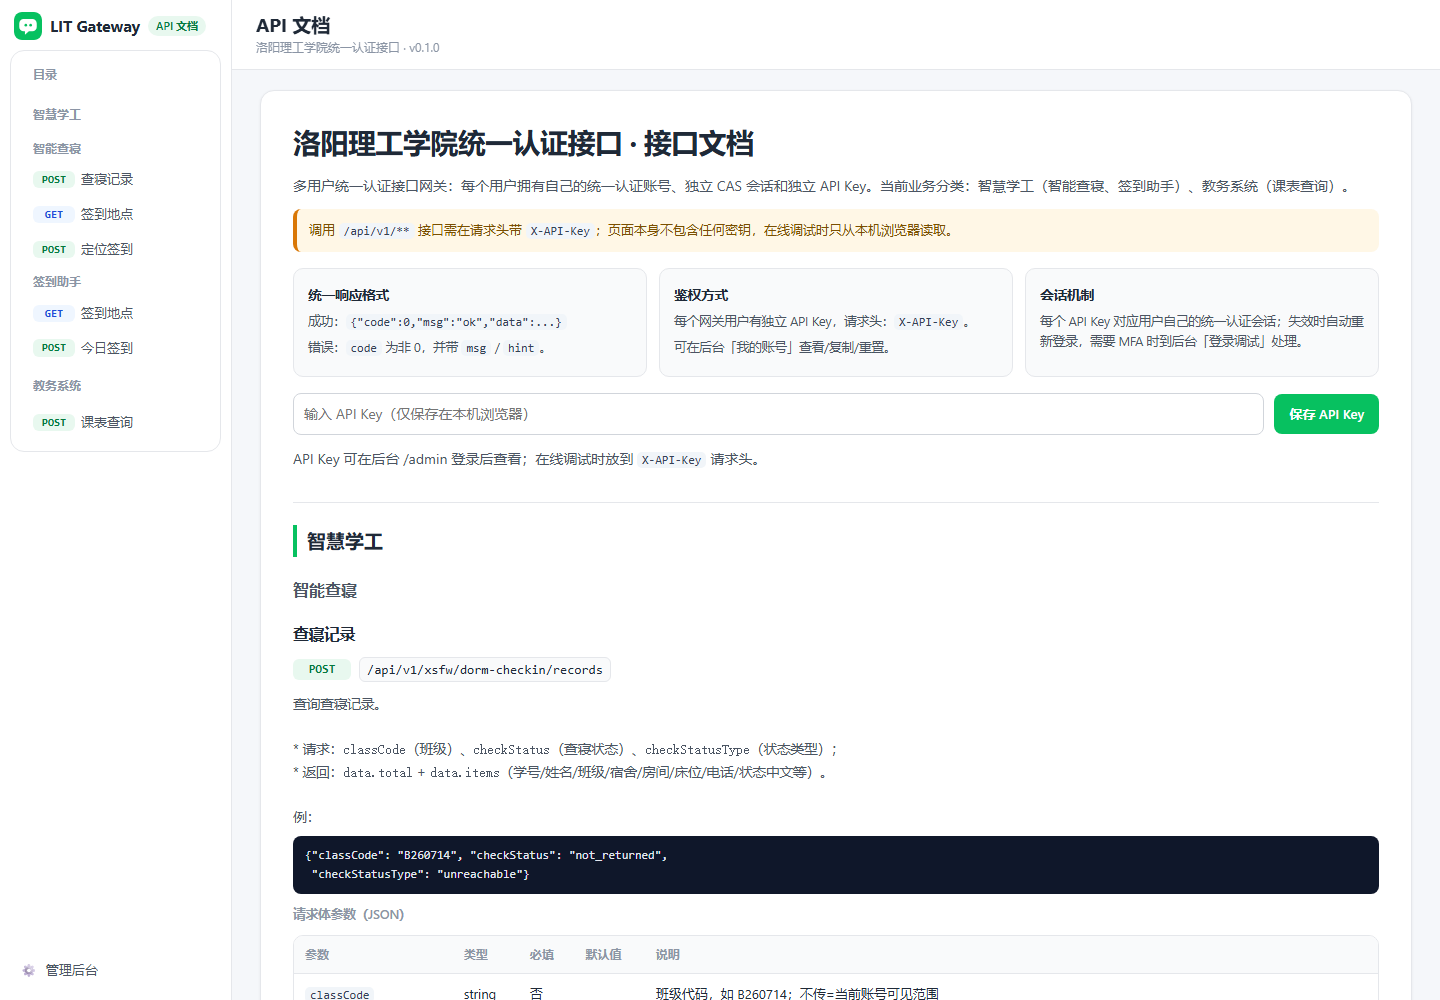
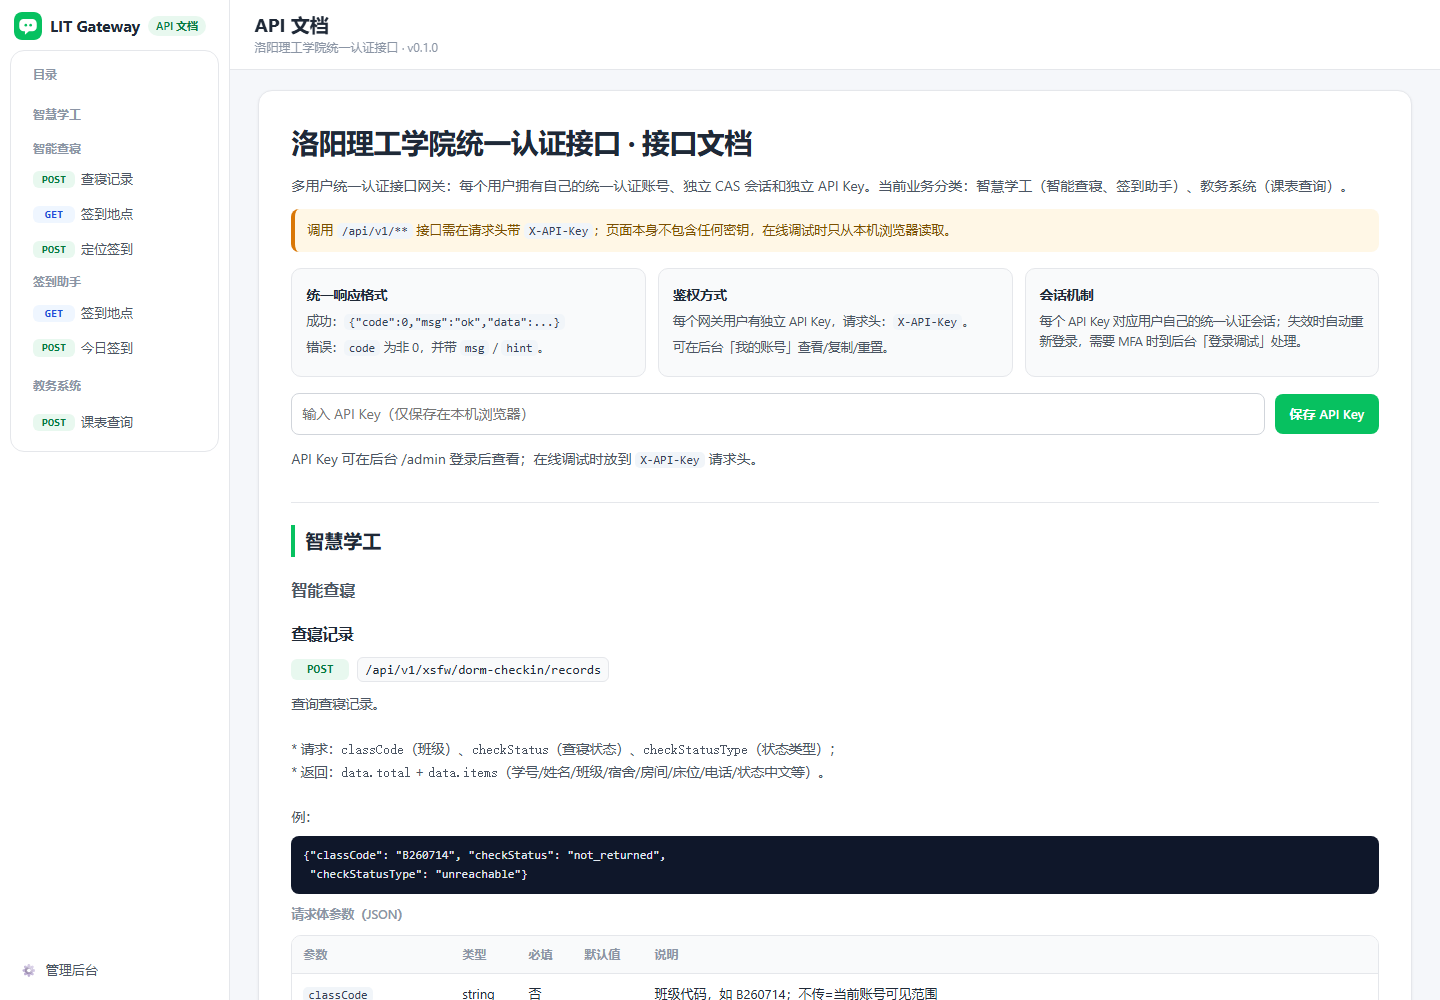
refactor: share one responsive layout base across docs and admin

diff --git a/app/webui.py b/app/webui.py
@@ -1,0 +1,37 @@
+"""统一响应式页面基座。
+
+所有前台/后台页面共用同一份 HTML 和同一套布局规则，不维护独立的 PC/移动端模板。
+具体页面只补充业务样式；这里只负责：
+  * 页面外壳宽度（侧栏/主内容）
+  * 表单行、按钮、输入框的自动换行与收缩
+  * 表格/图片/代码块在窄屏不撑破容器
+"""
+
+RESPONSIVE_CSS = """
+/* ---------- 统一响应式基座：页面只有一套结构，不区分 PC/移动端 ---------- */
+:root{
+  --sidebar-w:clamp(200px,16vw,232px);
+  --page-gap:clamp(12px,1.6vw,24px);
+}
+img{max-width:100%;height:auto}
+input,select,textarea{max-width:100%;box-sizing:border-box}
+.row{display:flex;flex-wrap:wrap;align-items:center;gap:8px;min-width:0}
+.row > input,
+.row > select{flex:1 1 150px;width:auto!important;min-width:0;max-width:100%}
+.row > button,
+.row > .btn,
+.row > label{flex:0 1 auto;max-width:100%}
+.row > span{flex:0 0 auto}
+.row > .note{flex:1 1 100%}
+.table-wrap{max-width:100%;overflow-x:auto}
+.doc-sidebar{width:var(--sidebar-w)}
+.docs-main{margin-left:var(--sidebar-w)}
+.admin-sidebar{width:var(--sidebar-w)}
+.admin-main{margin-left:var(--sidebar-w)}
+.docs-content{padding-left:var(--page-gap);padding-right:var(--page-gap)}
+.admin-content{padding-left:var(--page-gap);padding-right:var(--page-gap)}
+@media(max-width:900px){
+  .docs-main,.admin-main{margin-left:0}
+  .doc-sidebar,.admin-sidebar{width:min(300px,85vw)}
+}
+"""

diff --git a/app/routers/admin.py b/app/routers/admin.py
@@ -53,6 +53,7 @@ from ..session import SessionError
 from ..settings_store import DEFAULTS, EDITABLE, apply_log_level
 from ..systems import SystemError
 from ..users import UserStore
+from ..webui import RESPONSIVE_CSS
 
 log = logging.getLogger(__name__)
 
@@ -627,6 +628,8 @@ input[readonly]{background:#f3f4f6;color:var(--text2)}
  pre{font-size:11.5px}
 }
 """
+
+_CSS += RESPONSIVE_CSS
 
 _LOGIN_TMPL = """<!doctype html>
 <html lang="zh-CN"><head><meta charset="utf-8"><title>__APP_NAME__ · 后台登录</title>

diff --git a/app/routers/docs.py b/app/routers/docs.py
@@ -20,6 +20,8 @@ from html import escape
 from typing import Any
 
 from fastapi import APIRouter, Request
+
+from ..webui import RESPONSIVE_CSS
 from fastapi.responses import HTMLResponse
 
 router = APIRouter(tags=["前台接口文档"])
@@ -679,6 +681,8 @@ pre.result{margin-top:10px;max-height:280px;padding:12px 14px;border-radius:10px
  pre.result{font-size:11.5px}
 }
 """
+
+_CSS += RESPONSIVE_CSS
 
 DOCS_TMPL = """<!doctype html>
 <html lang="zh-CN"><head><meta charset="utf-8">
